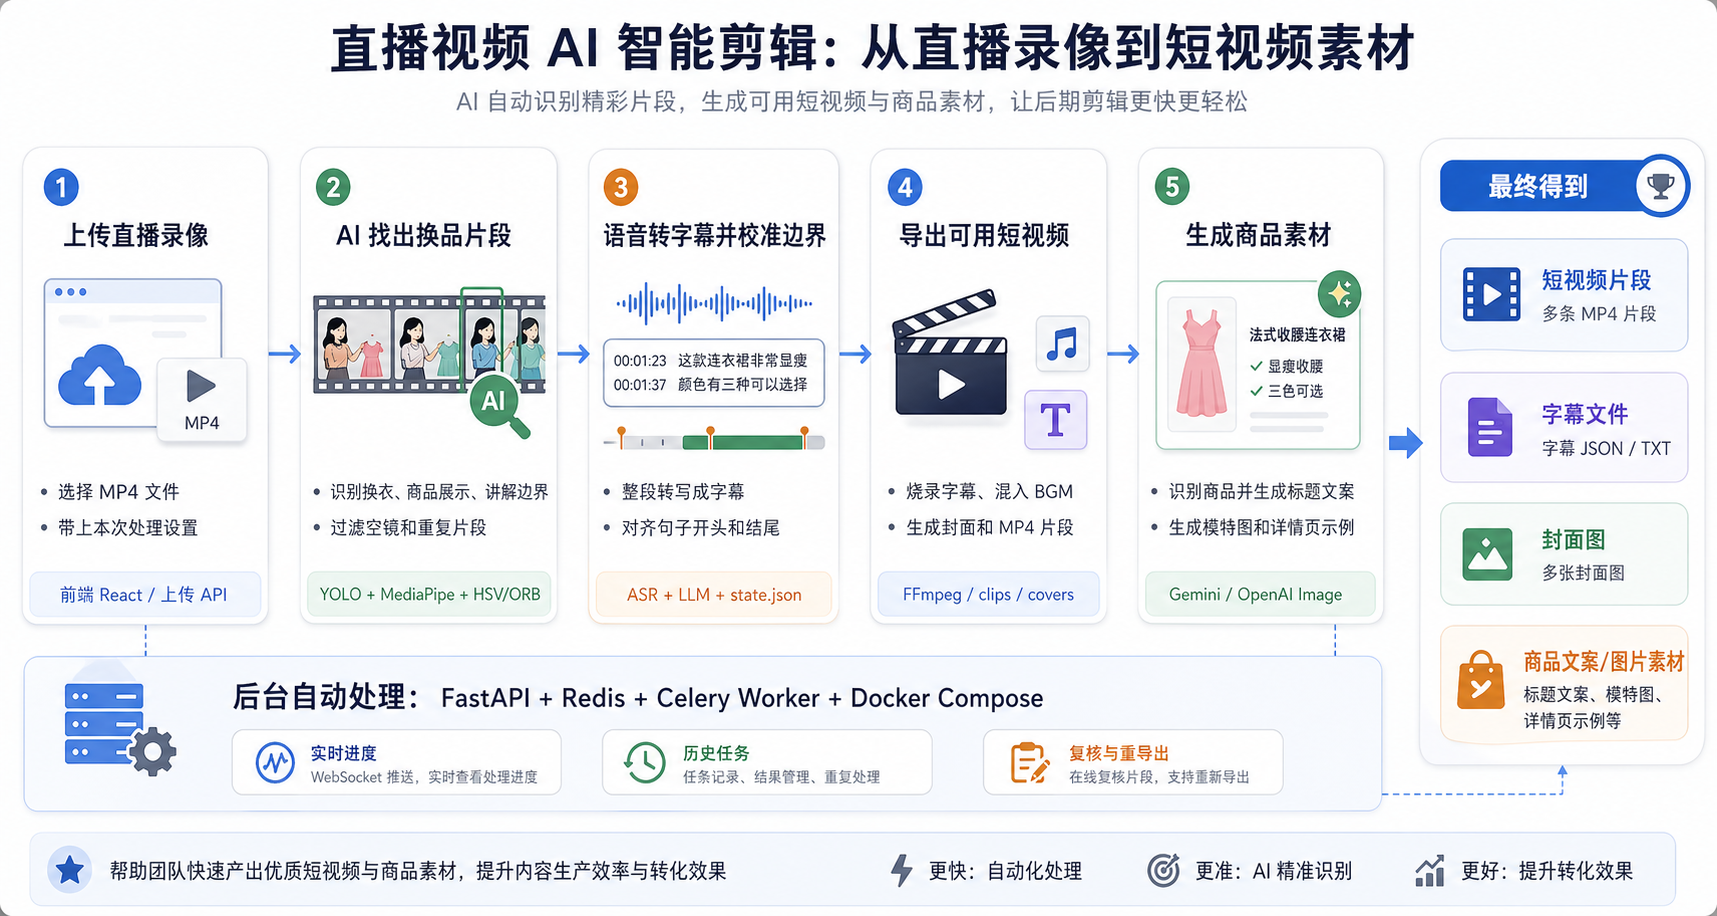
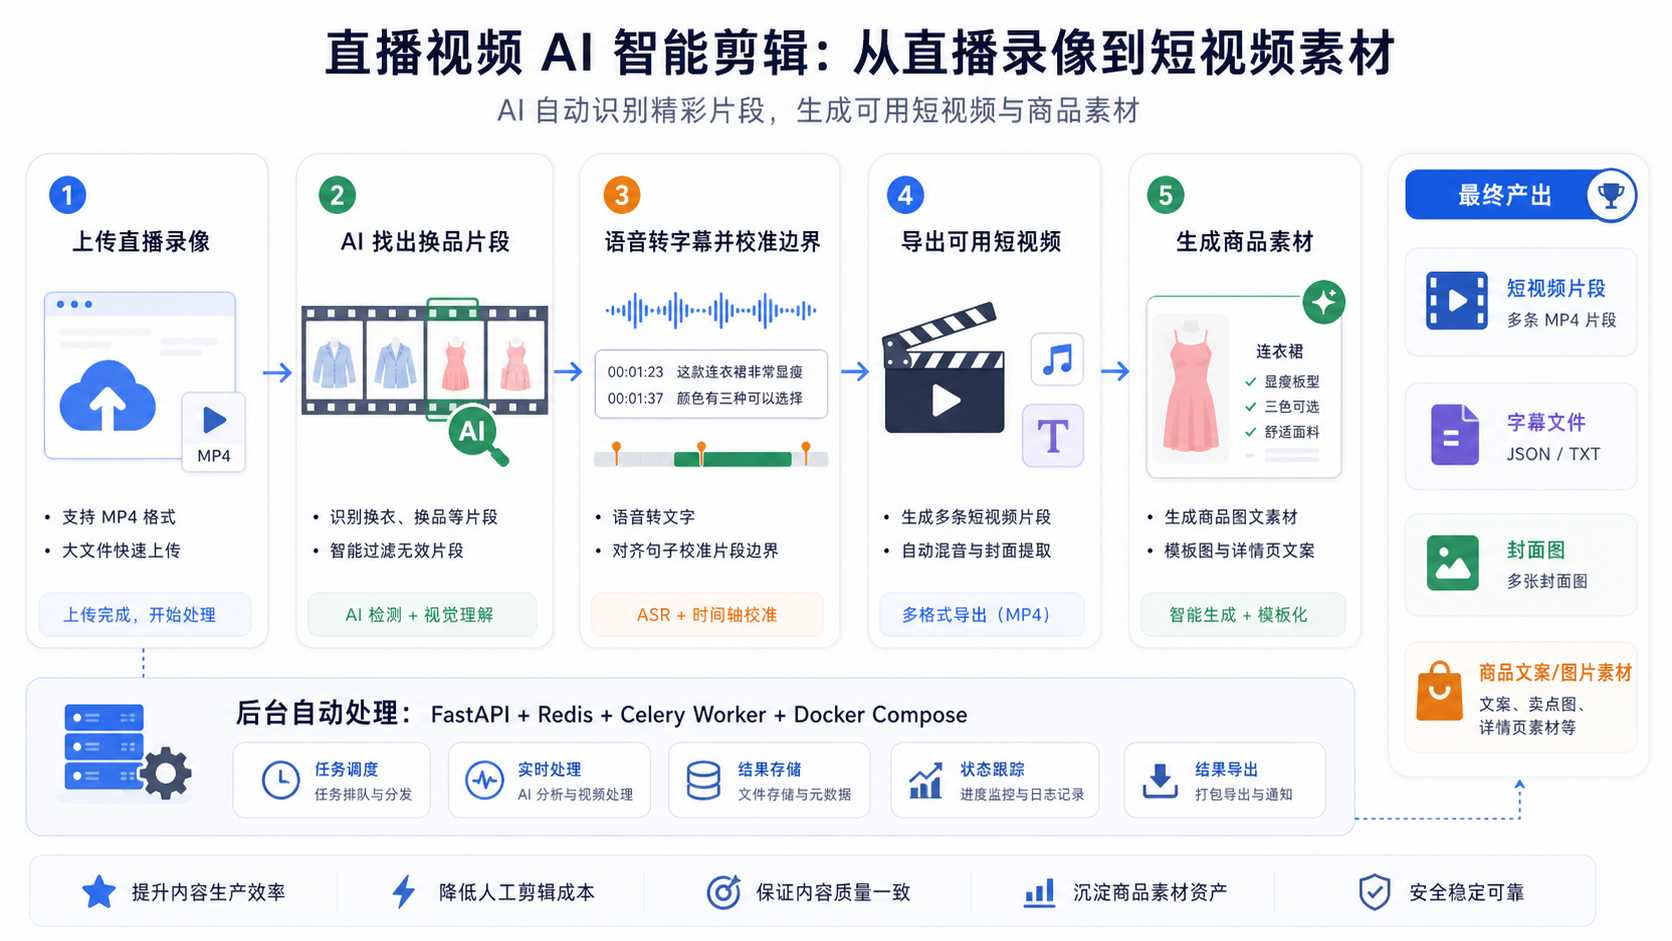
Replace doc portraits with synthetic assets

diff --git a/README.md b/README.md
@@ -4,6 +4,8 @@
 
 ![产品流程图](docs/images/product-flow.png)
 
+> 文档截图和示例素材中的人物预览均使用 AI 生成的虚构合成图，避免真实人物肖像权风险。
+
 ## 快速开始
 
 ### 前置条件
@@ -224,7 +226,7 @@ AI 商品素材配置位于设置页的 AI 服务页签内，独立于剪辑 VLM
 │       ├── components/       # UI 组件 & 9 个页面
 │       ├── hooks/            # WebSocket、TanStack Query hooks
 │       └── stores/           # Zustand 状态管理
-├── docs/images/              # 架构图 & 流程图
+├── docs/images/              # 架构图、流程图和文档合成示例图
 ├── docker-compose.yml        # 容器编排（4 services）
 └── .env.example              # 环境变量模板
 ```
@@ -241,6 +243,7 @@ AI 商品素材配置位于设置页的 AI 服务页签内，独立于剪辑 VLM
 ├── docs/
 │   └── images/
 │       ├── product-flow.png                         # 产品流程图
+│       ├── synthetic-live-preview.png               # 无真人肖像的合成直播预览图
 │       └── technical-architecture.png               # 技术架构图
 ├── backend/
 │   ├── Dockerfile                                   # Python 3.11 + FFmpeg 多阶段构建

diff --git a/CLAUDE.md b/CLAUDE.md
@@ -8,6 +8,7 @@
 - 输出：一组可预览、可下载的短视频片段（clips）
 - 目标：把直播里适合单独传播的商品讲解片段自动切出来，并带上烧录字幕
 - README 顶部使用 `docs/images/product-flow.png` 作为产品流程图，系统架构章节使用 `docs/images/technical-architecture.png` 作为技术架构图；原 Mermaid 图已移除。
+- 文档截图和示例素材中的人物预览必须优先使用 AI 生成的虚构合成图，避免真实人物肖像权风险。
 
 
 ## 当前真实架构
